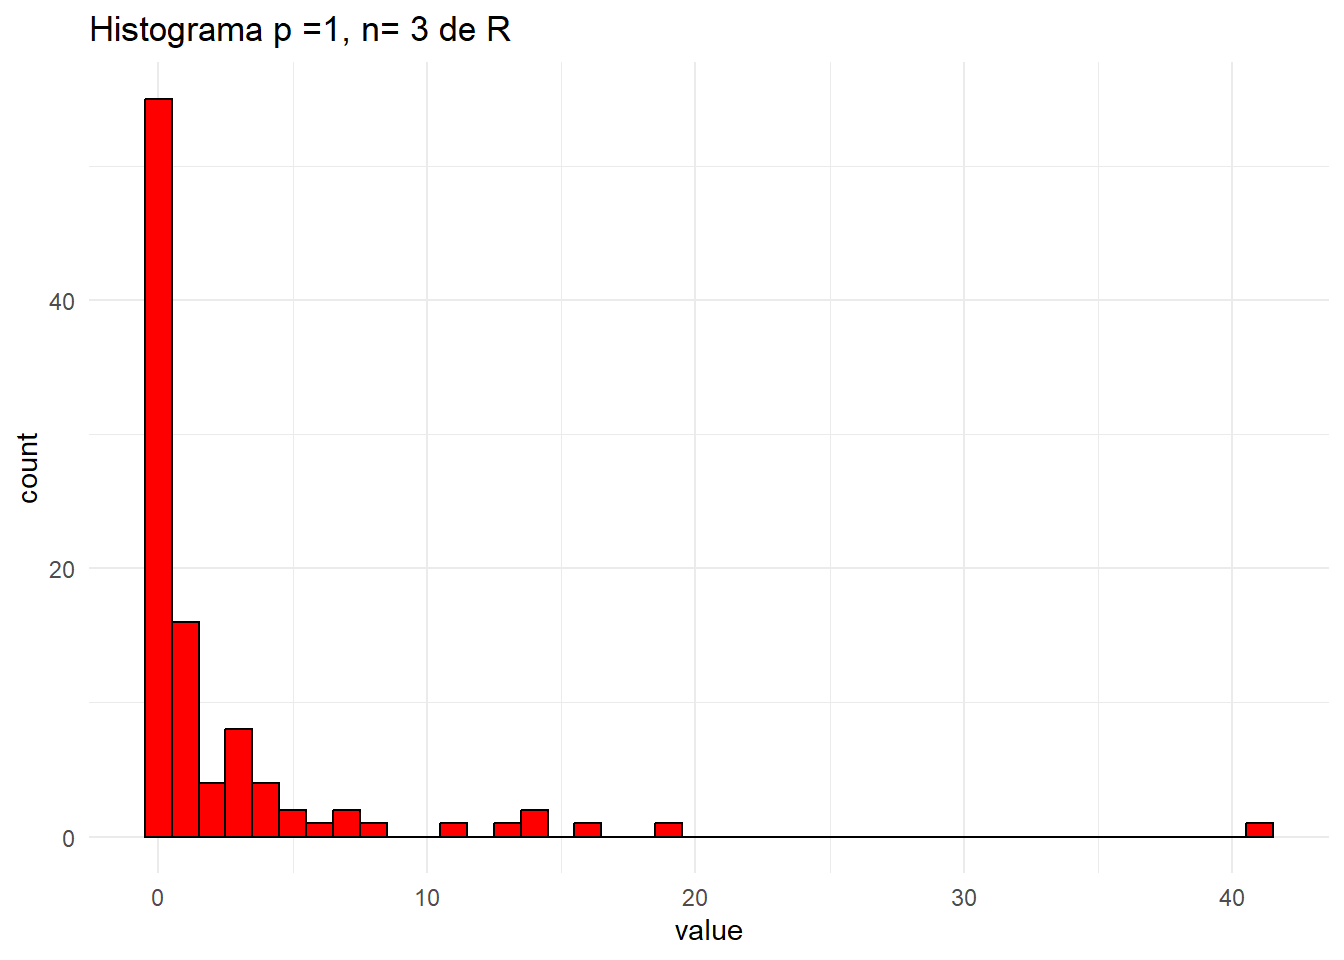
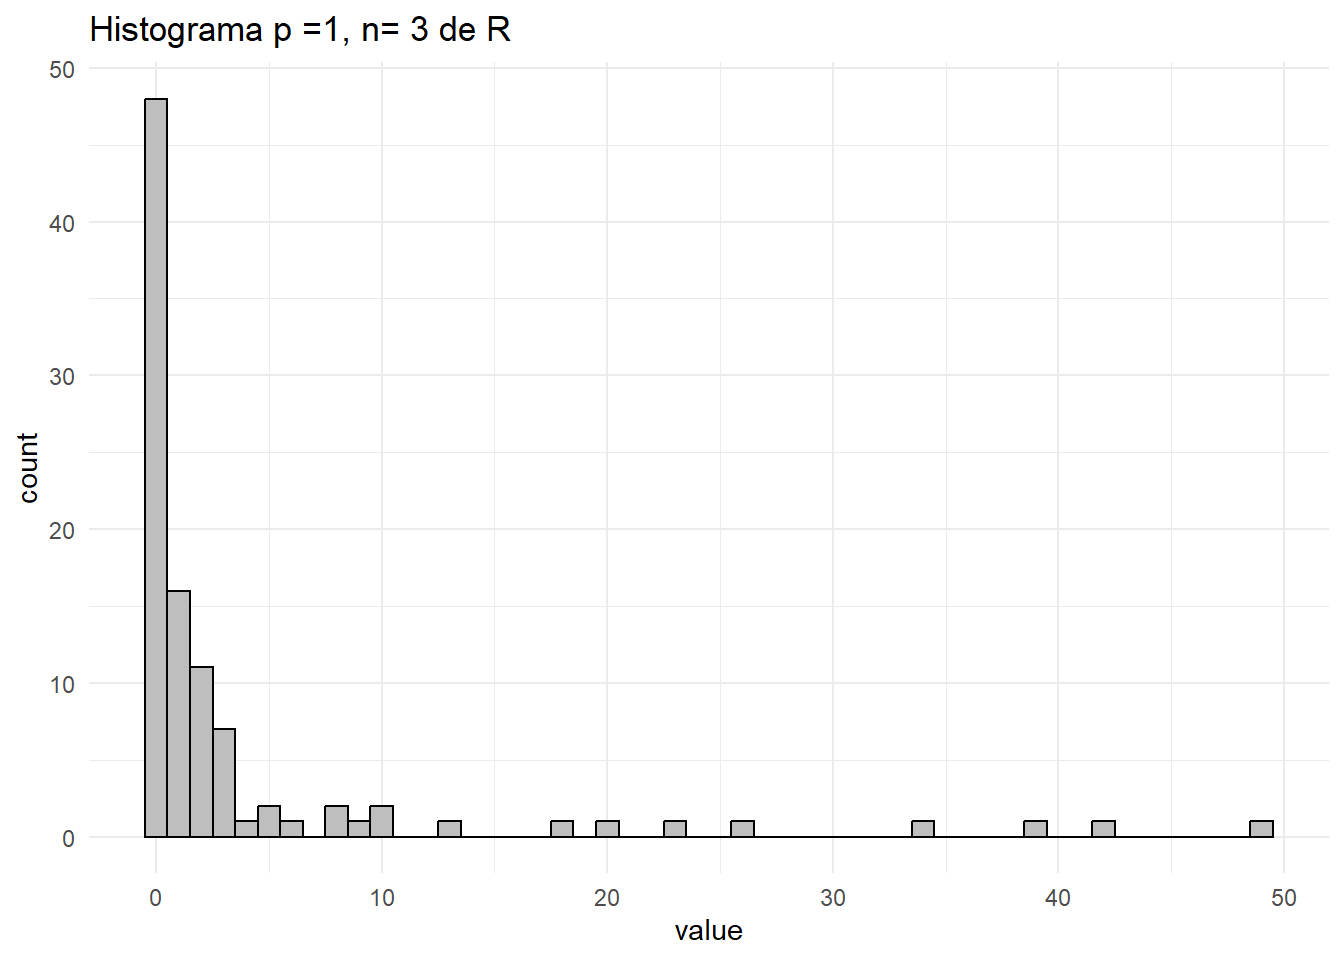
Añadimos LWilks como betas

diff --git a/Estadistica_multivariante_parte_2.html b/Estadistica_multivariante_parte_2.html
@@ -433,7 +433,7 @@ T^2 = n Z^t Q^{-1} Z \sim T^2(p, n)
 <span id="cb23-6"><a href="#cb23-6" aria-hidden="true" tabindex="-1"></a>muestra3 <span class="ot">&lt;-</span> ((p <span class="sc">*</span> n ) <span class="sc">/</span> (n <span class="sc">-</span> p<span class="sc">+</span><span class="dv">1</span>)) <span class="sc">*</span> f_values</span>
 <span id="cb23-7"><a href="#cb23-7" aria-hidden="true" tabindex="-1"></a>data3 <span class="ot">&lt;-</span> <span class="fu">as.tibble</span>(muestra3)</span>
 <span id="cb23-8"><a href="#cb23-8" aria-hidden="true" tabindex="-1"></a><span class="fu">ggplot</span>(data3, <span class="fu">aes</span>(<span class="at">x =</span> value)) <span class="sc">+</span></span>
-<span id="cb23-9"><a href="#cb23-9" aria-hidden="true" tabindex="-1"></a>  <span class="fu">geom_histogram</span>(<span class="at">binwidth =</span> <span class="dv">1</span>, <span class="at">color =</span> <span class="st">'black'</span>, <span class="at">fill =</span> <span class="st">'red'</span>)<span class="sc">+</span><span class="fu">labs</span>(<span class="at">title =</span> <span class="st">"Histograma p =1, n= 3 de R"</span>) <span class="sc">+</span></span>
+<span id="cb23-9"><a href="#cb23-9" aria-hidden="true" tabindex="-1"></a>  <span class="fu">geom_histogram</span>(<span class="at">binwidth =</span> <span class="dv">1</span>, <span class="at">color =</span> <span class="st">'black'</span>, <span class="at">fill =</span> <span class="st">'grey'</span>)<span class="sc">+</span><span class="fu">labs</span>(<span class="at">title =</span> <span class="st">"Histograma p =1, n= 3 de R"</span>) <span class="sc">+</span></span>
 <span id="cb23-10"><a href="#cb23-10" aria-hidden="true" tabindex="-1"></a>  <span class="fu">theme_minimal</span>()</span></code><button title="Copy to Clipboard" class="code-copy-button"><i class="bi"></i></button></pre></div>
 <div class="cell-output-display">
 <div>
@@ -449,7 +449,7 @@ T^2 = n Z^t Q^{-1} Z \sim T^2(p, n)
 <span id="cb24-5"><a href="#cb24-5" aria-hidden="true" tabindex="-1"></a>muestra3 <span class="ot">&lt;-</span> ((p <span class="sc">*</span> n ) <span class="sc">/</span> (n <span class="sc">-</span> p<span class="sc">+</span><span class="dv">1</span>)) <span class="sc">*</span> f_values</span>
 <span id="cb24-6"><a href="#cb24-6" aria-hidden="true" tabindex="-1"></a>data3 <span class="ot">&lt;-</span> <span class="fu">as.tibble</span>(muestra3)</span>
 <span id="cb24-7"><a href="#cb24-7" aria-hidden="true" tabindex="-1"></a><span class="fu">ggplot</span>(data3, <span class="fu">aes</span>(<span class="at">x =</span> value)) <span class="sc">+</span></span>
-<span id="cb24-8"><a href="#cb24-8" aria-hidden="true" tabindex="-1"></a>  <span class="fu">geom_histogram</span>(<span class="at">binwidth =</span> <span class="dv">1</span>, <span class="at">color =</span> <span class="st">'black'</span>, <span class="at">fill =</span> <span class="st">'red'</span>)<span class="sc">+</span><span class="fu">labs</span>(<span class="at">title =</span> <span class="st">"Histograma p =3, n= 6 de R"</span>) <span class="sc">+</span></span>
+<span id="cb24-8"><a href="#cb24-8" aria-hidden="true" tabindex="-1"></a>  <span class="fu">geom_histogram</span>(<span class="at">binwidth =</span> <span class="dv">1</span>, <span class="at">color =</span> <span class="st">'black'</span>, <span class="at">fill =</span> <span class="st">'grey'</span>)<span class="sc">+</span><span class="fu">labs</span>(<span class="at">title =</span> <span class="st">"Histograma p =3, n= 6 de R"</span>) <span class="sc">+</span></span>
 <span id="cb24-9"><a href="#cb24-9" aria-hidden="true" tabindex="-1"></a>  <span class="fu">theme_minimal</span>()</span></code><button title="Copy to Clipboard" class="code-copy-button"><i class="bi"></i></button></pre></div>
 <div class="cell-output-display">
 <div>
@@ -475,6 +475,76 @@ L = \prod_{i=1}^p u_i, \quad \text{donde } u_i \sim \text{Beta}\left( \frac{a + 
 <p>Genera una muestra de una ley <span class="math inline">\(\Lambda\)</span> de Wilks. Representa los resultados mediante un histograma. Luego, investiga la función <code>rWilksLambda</code> del paquete <code>EnvStats</code> y compara los resultados obtenidos con los de la simulación.</p>
 <section id="respuesta-5" class="level4">
 <h4 class="anchored" data-anchor-id="respuesta-5">Respuesta</h4>
+<div class="cell">
+<div class="sourceCode cell-code" id="cb25"><pre class="sourceCode r code-with-copy"><code class="sourceCode r"><span id="cb25-1"><a href="#cb25-1" aria-hidden="true" tabindex="-1"></a><span class="co"># Definimos una funcion para generar 1 muestra de Lambda de Wilks</span></span>
+<span id="cb25-2"><a href="#cb25-2" aria-hidden="true" tabindex="-1"></a>Wishart <span class="ot">&lt;-</span> <span class="cf">function</span>(p,n){</span>
+<span id="cb25-3"><a href="#cb25-3" aria-hidden="true" tabindex="-1"></a>  S <span class="ot">&lt;-</span> <span class="fu">diag</span>(p)</span>
+<span id="cb25-4"><a href="#cb25-4" aria-hidden="true" tabindex="-1"></a>  X <span class="ot">&lt;-</span> <span class="fu">matrix</span>(<span class="fu">rnorm</span>(p,<span class="at">mean =</span> <span class="dv">0</span>, <span class="at">sd =</span> <span class="dv">1</span>),<span class="at">ncol =</span> <span class="dv">1</span>) <span class="co"># Esta variable sera nuestra</span></span>
+<span id="cb25-5"><a href="#cb25-5" aria-hidden="true" tabindex="-1"></a>  <span class="cf">if</span> (n<span class="sc">&gt;</span><span class="dv">1</span>){</span>
+<span id="cb25-6"><a href="#cb25-6" aria-hidden="true" tabindex="-1"></a>    <span class="cf">for</span> (i <span class="cf">in</span> <span class="dv">2</span><span class="sc">:</span>n){</span>
+<span id="cb25-7"><a href="#cb25-7" aria-hidden="true" tabindex="-1"></a>      X  <span class="ot">&lt;-</span> <span class="fu">cbind</span>(X, <span class="fu">rnorm</span>(p, <span class="at">mean =</span> <span class="dv">0</span>, <span class="at">sd =</span> <span class="dv">1</span>))</span>
+<span id="cb25-8"><a href="#cb25-8" aria-hidden="true" tabindex="-1"></a>    }</span>
+<span id="cb25-9"><a href="#cb25-9" aria-hidden="true" tabindex="-1"></a>  }</span>
+<span id="cb25-10"><a href="#cb25-10" aria-hidden="true" tabindex="-1"></a>  </span>
+<span id="cb25-11"><a href="#cb25-11" aria-hidden="true" tabindex="-1"></a>  Q <span class="ot">=</span> <span class="fu">matrix</span>(<span class="fu">rep</span>(<span class="dv">0</span>,p<span class="sc">^</span><span class="dv">2</span>),<span class="at">ncol =</span> p)</span>
+<span id="cb25-12"><a href="#cb25-12" aria-hidden="true" tabindex="-1"></a>  <span class="cf">for</span> (i <span class="cf">in</span> <span class="dv">1</span><span class="sc">:</span>n){</span>
+<span id="cb25-13"><a href="#cb25-13" aria-hidden="true" tabindex="-1"></a>    Q <span class="ot">=</span> Q <span class="sc">+</span> X[,i]<span class="sc">%*%</span><span class="fu">t</span>(X[,i])</span>
+<span id="cb25-14"><a href="#cb25-14" aria-hidden="true" tabindex="-1"></a>  } </span>
+<span id="cb25-15"><a href="#cb25-15" aria-hidden="true" tabindex="-1"></a>  <span class="fu">return</span>(Q)</span>
+<span id="cb25-16"><a href="#cb25-16" aria-hidden="true" tabindex="-1"></a>}</span>
+<span id="cb25-17"><a href="#cb25-17" aria-hidden="true" tabindex="-1"></a>LWilks <span class="ot">&lt;-</span> <span class="cf">function</span>(p,a,b){</span>
+<span id="cb25-18"><a href="#cb25-18" aria-hidden="true" tabindex="-1"></a>  A <span class="ot">=</span> <span class="fu">Wishart</span>(p, a)</span>
+<span id="cb25-19"><a href="#cb25-19" aria-hidden="true" tabindex="-1"></a>  B <span class="ot">=</span> <span class="fu">Wishart</span>(p, b)</span>
+<span id="cb25-20"><a href="#cb25-20" aria-hidden="true" tabindex="-1"></a>  AB <span class="ot">=</span> A <span class="sc">+</span> B</span>
+<span id="cb25-21"><a href="#cb25-21" aria-hidden="true" tabindex="-1"></a>  l <span class="ot">=</span> <span class="fu">det</span>(A)<span class="sc">/</span><span class="fu">det</span>(AB)</span>
+<span id="cb25-22"><a href="#cb25-22" aria-hidden="true" tabindex="-1"></a>  <span class="fu">return</span>(l)</span>
+<span id="cb25-23"><a href="#cb25-23" aria-hidden="true" tabindex="-1"></a>}</span>
+<span id="cb25-24"><a href="#cb25-24" aria-hidden="true" tabindex="-1"></a></span>
+<span id="cb25-25"><a href="#cb25-25" aria-hidden="true" tabindex="-1"></a>rLWilks <span class="ot">&lt;-</span> <span class="cf">function</span>(n,p,a,b){</span>
+<span id="cb25-26"><a href="#cb25-26" aria-hidden="true" tabindex="-1"></a>  l <span class="ot">=</span> <span class="fu">c</span>()</span>
+<span id="cb25-27"><a href="#cb25-27" aria-hidden="true" tabindex="-1"></a>  <span class="cf">for</span> (i <span class="cf">in</span> <span class="dv">1</span><span class="sc">:</span>n){</span>
+<span id="cb25-28"><a href="#cb25-28" aria-hidden="true" tabindex="-1"></a>    l <span class="ot">=</span> <span class="fu">c</span>(l, <span class="fu">LWilks</span>(p,a,b))</span>
+<span id="cb25-29"><a href="#cb25-29" aria-hidden="true" tabindex="-1"></a>  }</span>
+<span id="cb25-30"><a href="#cb25-30" aria-hidden="true" tabindex="-1"></a>  <span class="fu">return</span>(l)</span>
+<span id="cb25-31"><a href="#cb25-31" aria-hidden="true" tabindex="-1"></a>}</span></code><button title="Copy to Clipboard" class="code-copy-button"><i class="bi"></i></button></pre></div>
+</div>
+<p>Una vez creadas nuestras funciones generamos unna muestra de tamaño 100 y hacemos un histograma con a = 5, b = 4 i p = 6</p>
+<div class="cell">
+<div class="sourceCode cell-code" id="cb26"><pre class="sourceCode r code-with-copy"><code class="sourceCode r"><span id="cb26-1"><a href="#cb26-1" aria-hidden="true" tabindex="-1"></a>a <span class="ot">=</span> <span class="dv">5</span></span>
+<span id="cb26-2"><a href="#cb26-2" aria-hidden="true" tabindex="-1"></a>b <span class="ot">=</span> <span class="dv">4</span></span>
+<span id="cb26-3"><a href="#cb26-3" aria-hidden="true" tabindex="-1"></a>p <span class="ot">=</span> <span class="dv">1</span></span>
+<span id="cb26-4"><a href="#cb26-4" aria-hidden="true" tabindex="-1"></a>muestra <span class="ot">=</span> <span class="fu">rLWilks</span>(<span class="dv">100</span>,p,a,b)</span>
+<span id="cb26-5"><a href="#cb26-5" aria-hidden="true" tabindex="-1"></a>his <span class="ot">&lt;-</span> <span class="fu">as.tibble</span>(muestra)</span>
+<span id="cb26-6"><a href="#cb26-6" aria-hidden="true" tabindex="-1"></a><span class="fu">ggplot</span>(his, <span class="fu">aes</span>(<span class="at">x =</span> value)) <span class="sc">+</span></span>
+<span id="cb26-7"><a href="#cb26-7" aria-hidden="true" tabindex="-1"></a>  <span class="fu">geom_histogram</span>(<span class="at">binwidth =</span> <span class="fl">1e-1</span>, <span class="at">color =</span> <span class="st">'black'</span>, <span class="at">fill =</span> <span class="st">'skyblue'</span>)<span class="sc">+</span><span class="fu">labs</span>(<span class="at">title =</span> <span class="st">"Histograma L Wilks con p = 1, a = 5 y b= 4"</span>) <span class="sc">+</span></span>
+<span id="cb26-8"><a href="#cb26-8" aria-hidden="true" tabindex="-1"></a>  <span class="fu">theme_minimal</span>()</span></code><button title="Copy to Clipboard" class="code-copy-button"><i class="bi"></i></button></pre></div>
+<div class="cell-output-display">
+<div>
+<figure class="figure">
+<p><img src="Estadistica_multivariante_parte_2_files/figure-html/unnamed-chunk-14-1.png" class="img-fluid figure-img" width="672"></p>
+</figure>
+</div>
+</div>
+</div>
+<p>Lo definimos ahora con las funciones beta:</p>
+<div class="cell">
+<div class="sourceCode cell-code" id="cb27"><pre class="sourceCode r code-with-copy"><code class="sourceCode r"><span id="cb27-1"><a href="#cb27-1" aria-hidden="true" tabindex="-1"></a>L <span class="ot">=</span> <span class="fu">rbeta</span>(<span class="dv">100</span>,(a<span class="sc">+</span><span class="dv">1</span><span class="sc">-</span>p)<span class="sc">/</span><span class="dv">2</span>,b<span class="sc">/</span><span class="dv">2</span>,<span class="at">ncp =</span> <span class="dv">0</span>)</span>
+<span id="cb27-2"><a href="#cb27-2" aria-hidden="true" tabindex="-1"></a><span class="cf">for</span> (i <span class="cf">in</span> <span class="dv">1</span><span class="sc">:</span>p){</span>
+<span id="cb27-3"><a href="#cb27-3" aria-hidden="true" tabindex="-1"></a>  L <span class="ot">=</span> L<span class="sc">*</span><span class="fu">rbeta</span>(<span class="dv">100</span>,(a<span class="sc">+</span><span class="dv">1</span><span class="sc">-</span>p)<span class="sc">/</span><span class="dv">2</span>,b<span class="sc">/</span><span class="dv">2</span>,<span class="at">ncp =</span> <span class="dv">0</span>)</span>
+<span id="cb27-4"><a href="#cb27-4" aria-hidden="true" tabindex="-1"></a>}</span>
+<span id="cb27-5"><a href="#cb27-5" aria-hidden="true" tabindex="-1"></a>his2 <span class="ot">&lt;-</span> <span class="fu">as.tibble</span>(<span class="fu">matrix</span>(L,<span class="at">ncol =</span> <span class="dv">1</span>))</span>
+<span id="cb27-6"><a href="#cb27-6" aria-hidden="true" tabindex="-1"></a></span>
+<span id="cb27-7"><a href="#cb27-7" aria-hidden="true" tabindex="-1"></a><span class="fu">ggplot</span>(his2, <span class="fu">aes</span>(<span class="at">x =</span> V1)) <span class="sc">+</span></span>
+<span id="cb27-8"><a href="#cb27-8" aria-hidden="true" tabindex="-1"></a>  <span class="fu">geom_histogram</span>(<span class="at">binwidth =</span><span class="fl">1e-1</span>, <span class="at">color =</span> <span class="st">'black'</span>, <span class="at">fill =</span> <span class="st">'grey'</span>)<span class="sc">+</span><span class="fu">labs</span>(<span class="at">title =</span> <span class="st">"Histograma L Wilks con p = 1, a = 5 y b= 4"</span>) <span class="sc">+</span></span>
+<span id="cb27-9"><a href="#cb27-9" aria-hidden="true" tabindex="-1"></a>  <span class="fu">theme_minimal</span>()</span></code><button title="Copy to Clipboard" class="code-copy-button"><i class="bi"></i></button></pre></div>
+<div class="cell-output-display">
+<div>
+<figure class="figure">
+<p><img src="Estadistica_multivariante_parte_2_files/figure-html/unnamed-chunk-15-1.png" class="img-fluid figure-img" width="672"></p>
+</figure>
+</div>
+</div>
+</div>
 </section>
 </section>
 
